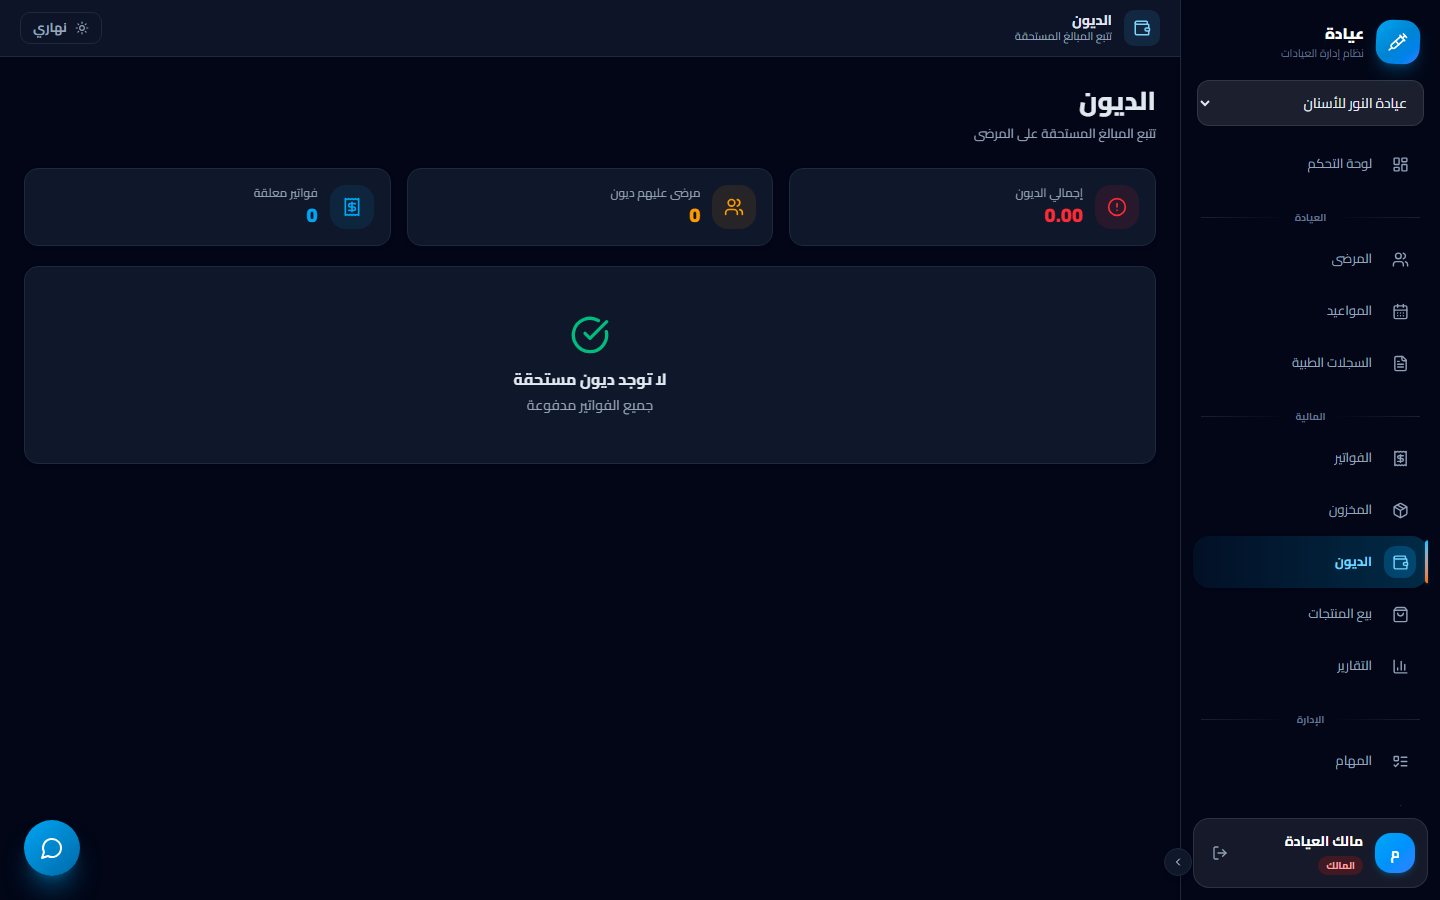
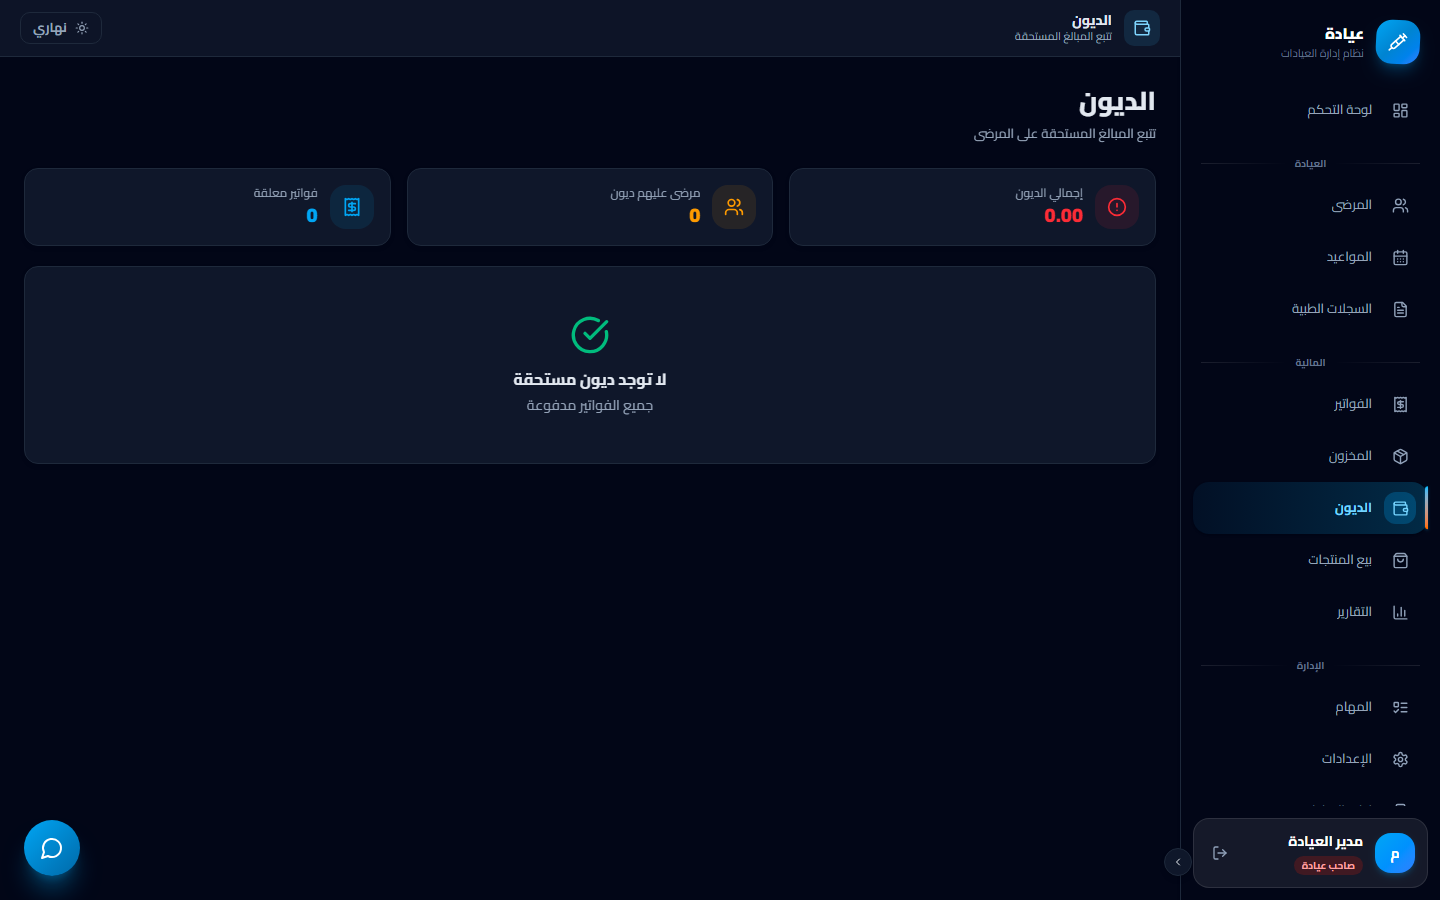
docs: replace screenshots with clinic manager (clinic owner) account views

diff --git a/docs/SCREENS.md b/docs/SCREENS.md
@@ -1,11 +1,11 @@
 # 📸 شاشات النظام — عيادة
 
-جولة مصوّرة في كل شاشة من شاشات نظام إدارة العيادات. الصور مأخوذة بحساب **المالك (super_admin)** على عرض 1440×900، والنسخة المعروضة تحتوي على بيانات تجريبية.
+جولة مصوّرة في كل شاشات نظام إدارة العيادات. لقطات لوحة التحكم مأخوذة من حساب **مدير عيادة (صاحب عيادة)** على «عيادة النور للأسنان» مع **بيانات حقيقية واشتراك فعّال** — وليس من حساب مالك الموقع، وذلك لعرض الواجهة كما يراها فعلاً صاحب العيادة على عرض 1440×900.
 
 - **الواجهة العامة**: صفحة تعريفية + تسجيل الدخول + صفحة الحجز للمريض.
-- **لوحة التحكم**: 16 شاشة موزّعة على مجموعات (الرئيسية، العيادة، المالية، الإدارة، الاشتراكات).
+- **لوحة تحكم مدير العيادة**: 14 شاشة موزّعة على مجموعات (الرئيسية، العيادة، المالية، الإدارة).
 
-> ملاحظة: بعض الشاشات (مثل «إدارة الاشتراكات» و«إدارة العروض») تظهر لحساب المالك فقط؛ أما شاشات الطبيب والاستقبال فتظهر حسب الصلاحيات الممنوحة لكل دور (انظر قسم «شاشات الأدوار الأخرى» في الأسفل).
+> ملاحظة: شاشتا «إدارة الاشتراكات» و«إدارة العروض» لا تظهران لحساب مدير العيادة؛ فهما مخصّصتان لمالك الموقع فقط.
 
 ---
 
@@ -31,7 +31,7 @@
 
 ---
 
-## 🖥 لوحة التحكم
+## 🖥 لوحة تحكم مدير العيادة
 
 ### 4) لوحة التحكم — الرئيسية
 
@@ -103,7 +103,7 @@
 
 ![إدارة العيادات](./screenshots/15-management.png)
 
-خاص بالمالك/المدير: إضافة عيادة جديدة، تعديل بيانات الفروع، وتخصيص المظهر والرابط العام للحجز لكل عيادة.
+إدارة بيانات العيادة/الفروع الخاصة بصاحب العيادة، وتخصيص المظهر والرابط العام للحجز.
 
 ### 16) الخدمات والأسعار
 
@@ -116,98 +116,6 @@
 ![الأمان](./screenshots/17-security.png)
 
 حماية الحساب: تغيير كلمة المرور (مع تسجيل خروج بقية الأجهزة فوراً)، وإدارة خيارات الأمان للمستخدم.
-
-### 18) إدارة الاشتراكات
-
-![إدارة الاشتراكات](./screenshots/18-subscriptions.png)
-
-خاص بالمالك: إدارة خطط الاشتراك، منح/تجديد اشتراك للعيادات، ومتابعة الفترات التجريبية وحالات الاشتراك.
-
-### 19) إدارة العروض
-
-![إدارة العروض](./screenshots/19-offers.png)
-
-خاص بالمالك: إنشاء عروض وخصومات (نسبة أو مبلغ)، تحديد مدتها وإظهارها في الصفحة التعريفية.
-
----
-
-## 🩺 شاشات الأدوار الأخرى
-
-تختلف القائمة الجانبية حسب صلاحيات كل دور. التقطنا الشاشات كما تظهر فعلياً لحسابي **الطبيب** و**الاستقبال**.
-
-### 👨⚕ حساب الطبيب (`doctor`)
-
-يرى الطبيب **5 شاشات** فقط: لوحة التحكم، المرضى، المواعيد، السجلات الطبية، والمهام — دون الجوانب المالية والإدارية.
-
-#### لوحة تحكم الطبيب
-
-![لوحة تحكم الطبيب](./screenshots/20-doctor-dashboard.png)
-
-لوحة مختصرة تركّز على مواعيد اليوم الخاصة بالطبيب وقائمة مرضاه ومهامه، دون مؤشرات مالية.
-
-#### المرضى (الطبيب)
-
-![المرضى - الطبيب](./screenshots/21-doctor-patients.png)
-
-الوصول إلى ملفات المرضى لعرض البيانات والتاريخ الطبي وإضافة الملاحظات.
-
-#### المواعيد (الطبيب)
-
-![المواعيد - الطبيب](./screenshots/22-doctor-appointments.png)
-
-جدول مواعيد الطبيب ومتابعة حالاتها (مؤكّد/مكتمل) دون إدارة الفواتير.
-
-#### السجلات الطبية (الطبيب)
-
-![السجلات الطبية - الطبيب](./screenshots/23-doctor-records.png)
-
-تدوين الزيارة والتشخيص والوصفة الطبية وإرفاق الملفات.
-
-#### المهام (الطبيب)
-
-![المهام - الطبيب](./screenshots/24-doctor-tasks.png)
-
-المهام المسندة إلى الطبيب ومتابعة إنجازها.
-
-### 💁 حساب الاستقبال (`reception`)
-
-يرى موظف الاستقبال **6 شاشات**: لوحة التحكم، المرضى، المواعيد، الفواتير، الديون، والمهام.
-
-#### لوحة تحكم الاستقبال
-
-![لوحة تحكم الاستقبال](./screenshots/25-reception-dashboard.png)
-
-نظرة عامة على مواعيد اليوم والحجوزات الجديدة الواردة من صفحة الحجز العامة.
-
-#### المرضى (الاستقبال)
-
-![المرضى - الاستقبال](./screenshots/26-reception-patients.png)
-
-تسجيل المرضى الجدد والبحث عن المرضى القدامى وإدارة بياناتهم الأساسية.
-
-#### المواعيد (الاستقبال)
-
-![المواعيد - الاستقبال](./screenshots/27-reception-appointments.png)
-
-إدارة جدول المواعيد: الحجز وتأكيد المواعيد الواردة وتعديلها.
-
-#### الفواتير (الاستقبال)
-
-![الفواتير - الاستقبال](./screenshots/28-reception-invoices.png)
-
-إصدار الفواتير وتحصيل المدفوعات وتسجيل طرق الدفع.
-
-#### الديون (الاستقبال)
-
-![الديون - الاستقبال](./screenshots/29-reception-debts.png)
-
-متابعة المبالغ المستحقة على المرضى وتسجيل الدفعات الجزئية.
-
-#### المهام (الاستقبال)
-
-![المهام - الاستقبال](./screenshots/30-reception-tasks.png)
-
-المهام المسندة إلى موظف الاستقبال ومتابعتها.
 
 ---
 
@@ -233,22 +141,9 @@ docs/
     ├── 14-settings.png
     ├── 15-management.png
     ├── 16-services.png
-    ├── 17-security.png
-    ├── 18-subscriptions.png
-    ├── 19-offers.png
-    ├── 20-doctor-dashboard.png
-    ├── 21-doctor-patients.png
-    ├── 22-doctor-appointments.png
-    ├── 23-doctor-records.png
-    ├── 24-doctor-tasks.png
-    ├── 25-reception-dashboard.png
-    ├── 26-reception-patients.png
-    ├── 27-reception-appointments.png
-    ├── 28-reception-invoices.png
-    ├── 29-reception-debts.png
-    └── 30-reception-tasks.png
+    └── 17-security.png
 ```
 
 ## 🔁 إعادة توليد الصور
 
-كل الصور التُقطت من التطبيق الحي على `http://127.0.0.1:3000` عبر بروتوكول Chrome DevTools. لتحديثها بعد أي تغيير في الواجهة، شغّل السيرفر (`node server.js`) ثم أعد التصوير من نفس الروابط والحساب.
+كل الصور التُقطت من التطبيق الحي على `http://127.0.0.1:3000` عبر بروتوكول Chrome DevTools، بحساب مدير عيادة (صاحب عيادة). لتحديثها بعد أي تغيير في الواجهة، شغّل السيرفر (`node server.js`) ثم أعد التصوير من نفس الروابط والحساب.

diff --git a/README.md b/README.md
@@ -8,13 +8,15 @@
 
 ## 🖼 لقطات الشاشات
 
+> كل لقطات لوحة التحكم مأخوذة من حساب **مدير عيادة (صاحب عيادة)** على «عيادة النور للأسنان» مع بيانات حقيقية واشتراك فعّال — وليس من حساب مالك الموقع.
+
 ### 🌐 الواجهة العامة
 
 | الصفحة التعريفية | تسجيل الدخول | حجز المريض |
 |:---:|:---:|:---:|
 | ![الرئيسية](docs/screenshots/01-landing.png) | ![الدخول](docs/screenshots/02-login.png) | ![الحجز](docs/screenshots/03-booking.png) |
 
-### 🖥 لوحة التحكم (المالك)
+### 🖥 لوحة تحكم مدير العيادة
 
 | لوحة التحكم | المرضى | المواعيد |
 |:---:|:---:|:---:|
@@ -32,21 +34,9 @@
 |:---:|:---:|:---:|
 | ![المهام](docs/screenshots/13-tasks.png) | ![الإعدادات](docs/screenshots/14-settings.png) | ![إدارة العيادات](docs/screenshots/15-management.png) |
 
-| الخدمات والأسعار | الأمان | الاشتراكات | العروض |
-|:---:|:---:|:---:|:---:|
-| ![الخدمات](docs/screenshots/16-services.png) | ![الأمان](docs/screenshots/17-security.png) | ![الاشتراكات](docs/screenshots/18-subscriptions.png) | ![العروض](docs/screenshots/19-offers.png) |
-
-### 👨⚕ حساب الطبيب
-
-| لوحة التحكم | المرضى | المواعيد | السجلات | المهام |
-|:---:|:---:|:---:|:---:|:---:|
-| ![الطبيب](docs/screenshots/20-doctor-dashboard.png) | ![المرضى](docs/screenshots/21-doctor-patients.png) | ![المواعيد](docs/screenshots/22-doctor-appointments.png) | ![السجلات](docs/screenshots/23-doctor-records.png) | ![المهام](docs/screenshots/24-doctor-tasks.png) |
-
-### 💁 حساب الاستقبال
-
-| لوحة التحكم | المرضى | المواعيد | الفواتير | الديون | المهام |
-|:---:|:---:|:---:|:---:|:---:|:---:|
-| ![الاستقبال](docs/screenshots/25-reception-dashboard.png) | ![المرضى](docs/screenshots/26-reception-patients.png) | ![المواعيد](docs/screenshots/27-reception-appointments.png) | ![الفواتير](docs/screenshots/28-reception-invoices.png) | ![الديون](docs/screenshots/29-reception-debts.png) | ![المهام](docs/screenshots/30-reception-tasks.png) |
+| الخدمات والأسعار | الأمان |
+|:---:|:---:|
+| ![الخدمات](docs/screenshots/16-services.png) | ![الأمان](docs/screenshots/17-security.png) |
 
 > التفاصيل والشرح الكامل لكل شاشة في [docs/SCREENS.md](docs/SCREENS.md)
 
